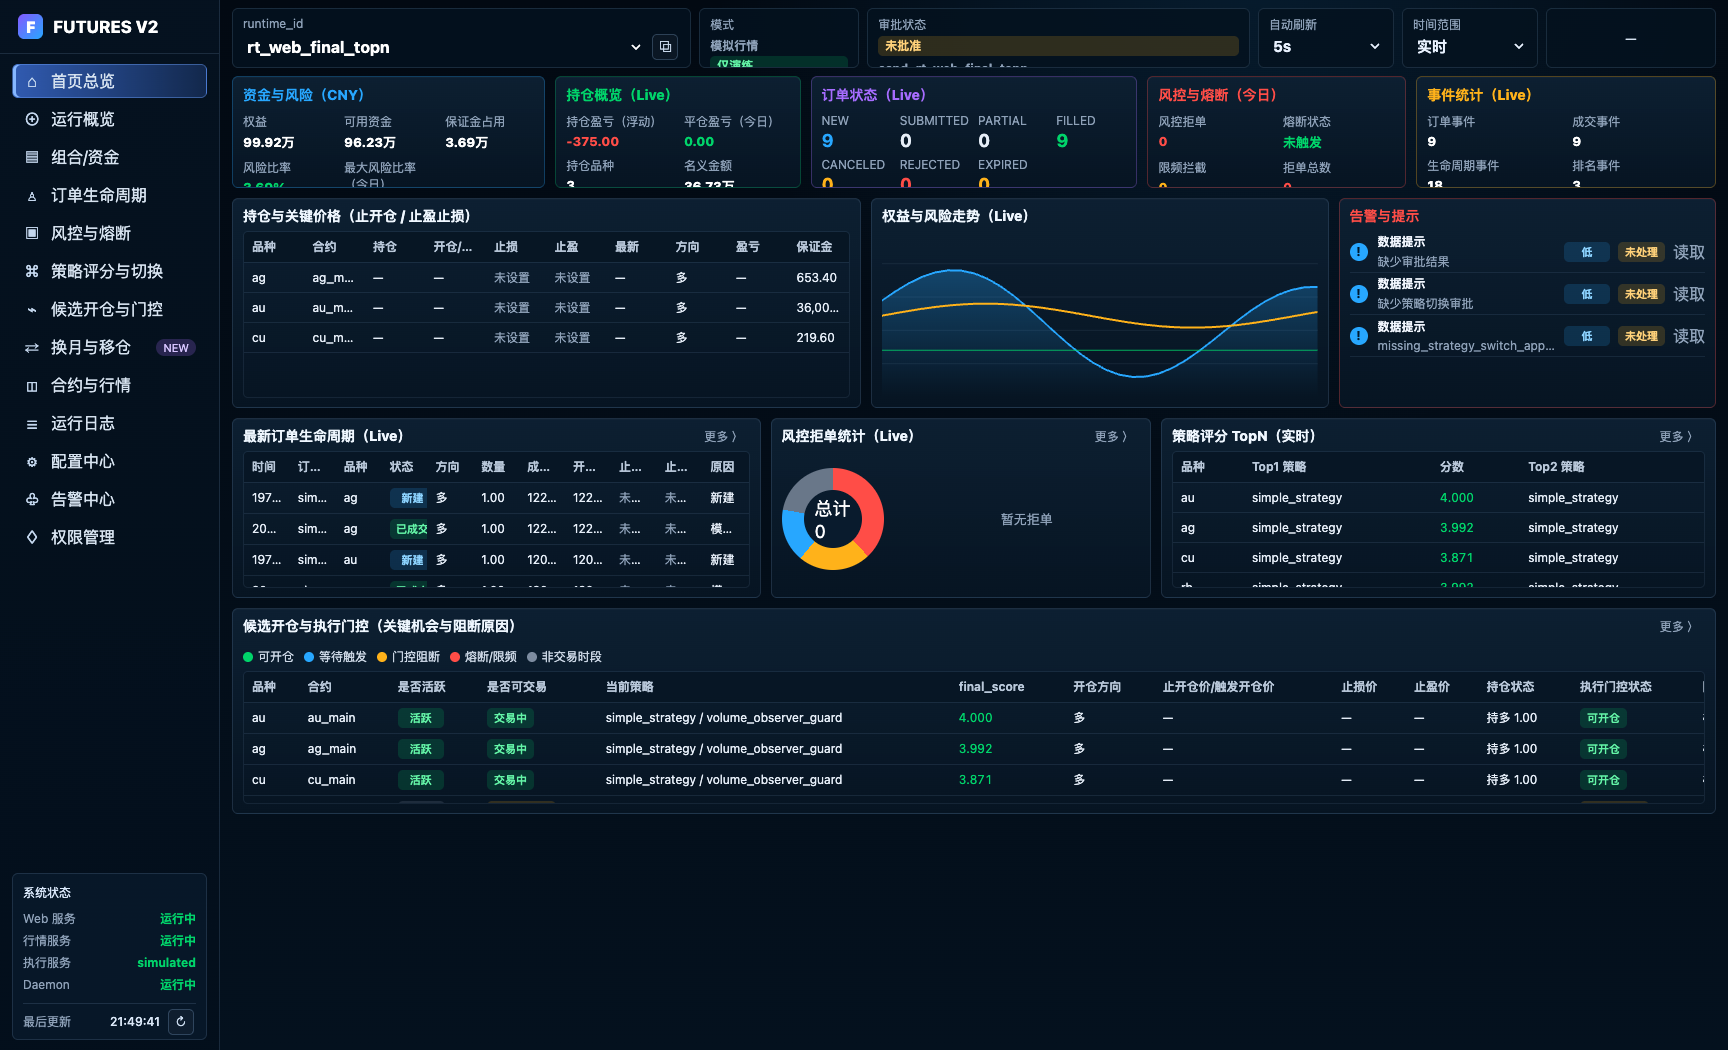
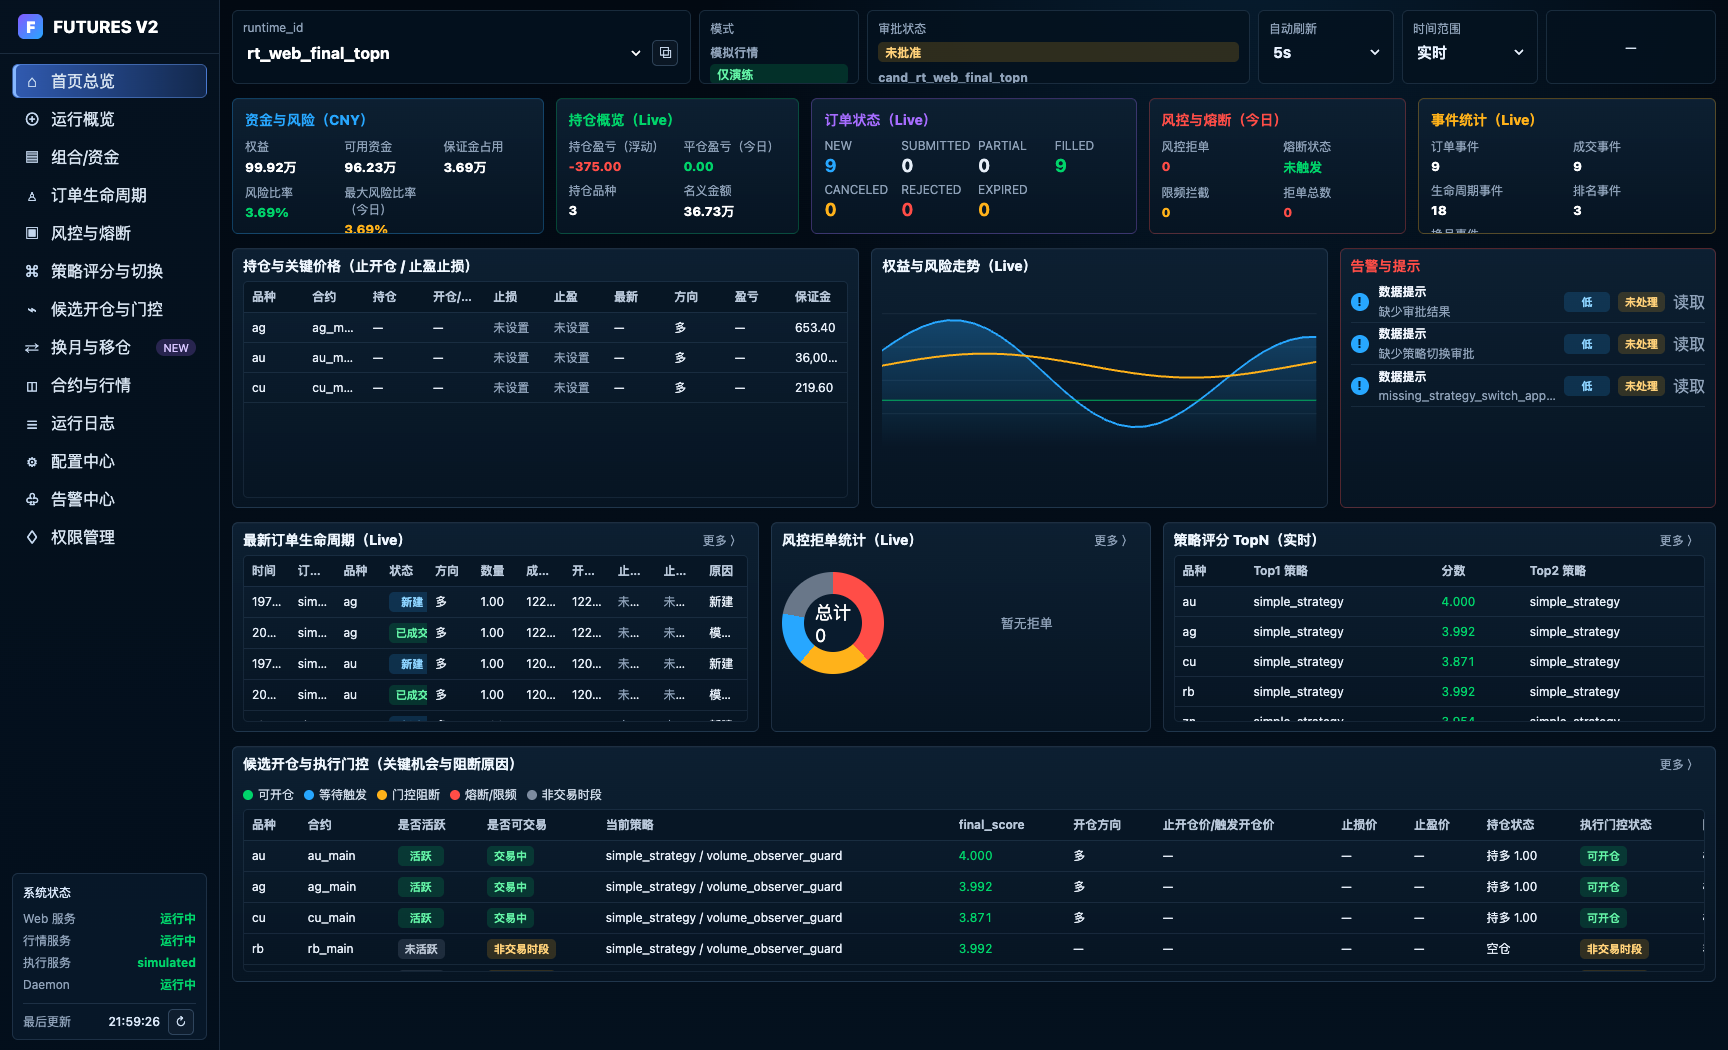
fix: separate dashboard home rows

diff --git a/web/ui/style.css b/web/ui/style.css
@@ -184,15 +184,15 @@ select {
   min-height: 0;
   overflow-x: hidden;
   overflow-y: auto;
-  padding: 8px 12px 10px;
+  padding: 10px 12px 12px;
 }
 
 .top-strip {
   display: grid;
   grid-template-columns: minmax(220px, 1.2fr) 160px minmax(220px, 1fr) 136px 136px 170px;
   gap: 8px;
-  height: 60px;
-  margin-bottom: 8px;
+  height: 74px;
+  margin-bottom: 14px;
 }
 
 .field,
@@ -201,13 +201,13 @@ select {
   border: 1px solid var(--line);
   border-radius: var(--radius);
   background: rgba(4, 17, 30, 0.86);
-  padding: 7px 10px;
+  padding: 9px 10px;
   overflow: hidden;
 }
 
 .field span {
   display: block;
-  margin-bottom: 3px;
+  margin-bottom: 5px;
   color: var(--muted);
   font-size: 12px;
 }
@@ -218,7 +218,7 @@ select {
   color: #fff;
   font-size: 14px;
   font-weight: 760;
-  line-height: 20px;
+  line-height: 22px;
   text-overflow: ellipsis;
   white-space: nowrap;
 }
@@ -282,19 +282,19 @@ select {
 
 .home-grid {
   display: grid;
-  gap: 10px;
+  gap: 14px;
 }
 
 .kpi-grid {
   display: grid;
   grid-template-columns: 1.15fr 0.9fr 1.2fr 0.95fr 1.1fr;
-  gap: 10px;
+  gap: 12px;
 }
 
 .row-grid-3 {
   display: grid;
   grid-template-columns: 1.1fr 0.8fr 0.66fr;
-  gap: 10px;
+  gap: 12px;
 }
 
 .row-grid-3.equal {
@@ -318,10 +318,10 @@ select {
 .panel-card.red { border-color: rgba(255, 77, 71, 0.3); }
 .panel-card.yellow { border-color: rgba(255, 178, 26, 0.3); }
 
-.kpi-card { height: 112px; overflow: hidden; padding: 8px 10px; }
-.h320 { height: 210px; }
-.h260 { height: 180px; }
-.h290 { height: 206px; }
+.kpi-card { height: 136px; overflow: hidden; padding: 11px 12px; }
+.h320 { height: 260px; }
+.h260 { height: 210px; }
+.h290 { height: 236px; }
 .h-full { height: calc(100vh - 76px); }
 
 .card-head {
